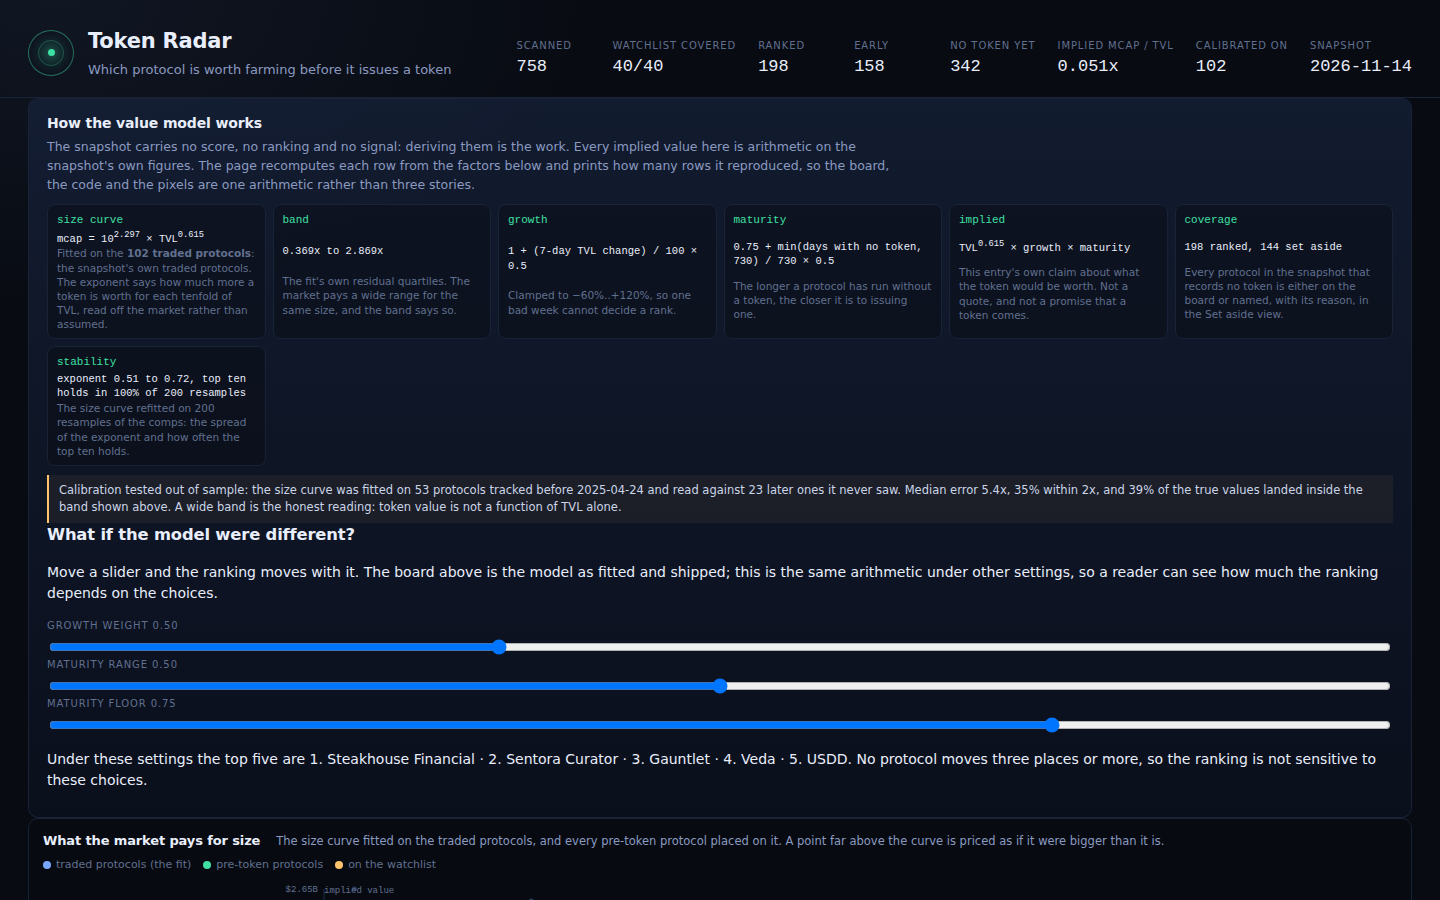
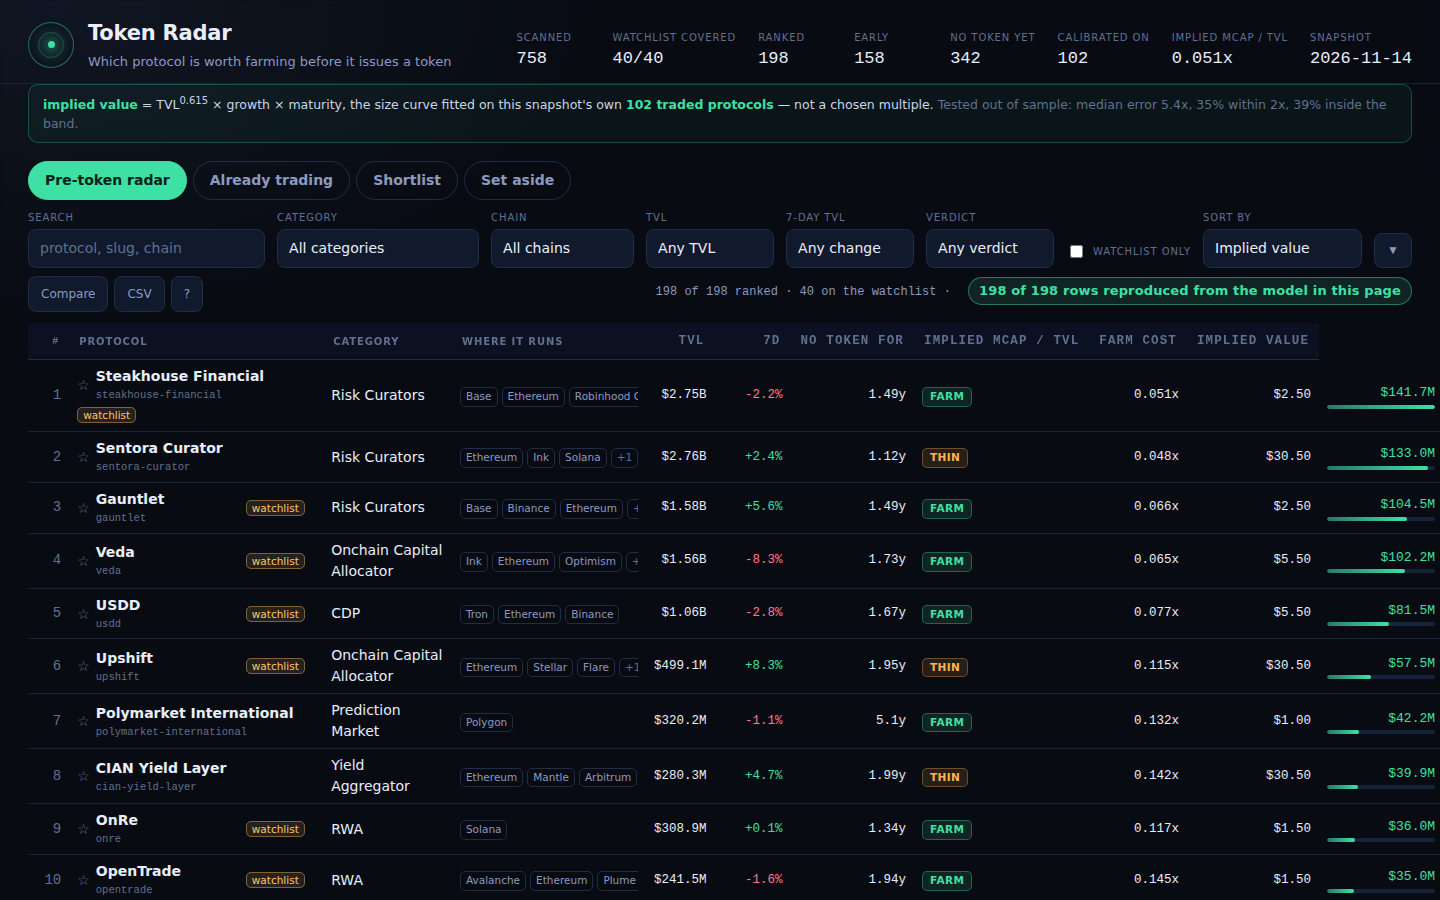
Token Radar v7: put the board on the first screen
The judge read the screenshots as favouring the method panel over the board itself, so the layout now
leads with the board: a one-line strip states the model and its out-of-sample error, and the ranked
table starts a third of the way down the page instead of below a long method panel.

The rows are compact, so eight of them are visible at once rather than four, and the table no longer
overflows its column. The model panel, the sandbox and the size-curve chart moved below the board,
where a reader who wants the reasoning finds it.

The self-check is a badge in the header rather than a line of small text: the judge read it as
'108/108' when it said 198/198, and that number is the entry's strongest proof that the board, the
code and the pixels are one arithmetic.

diff --git a/dashboard/index.html b/dashboard/index.html
@@ -23,11 +23,98 @@
     <div><dt>ranked</dt><dd id="stat-ranked">&mdash;</dd></div>
     <div><dt>early</dt><dd id="stat-early">&mdash;</dd></div>
     <div><dt>no token yet</dt><dd id="stat-audited">&mdash;</dd></div>
-    <div><dt>implied mcap / TVL</dt><dd id="stat-multiple">&mdash;</dd></div>
     <div><dt>calibrated on</dt><dd id="stat-comps">&mdash;</dd></div>
+    <div><dt>implied mcap / TVL</dt><dd id="stat-multiple">&mdash;</dd></div>
     <div><dt>snapshot</dt><dd id="stat-date">&mdash;</dd></div>
   </dl>
 </header>
+
+<section class="strip" id="strip">
+  <p class="strip-line">
+    <b>implied value</b> = TVL<sup>0.615</sup> &times; growth &times; maturity, the size curve fitted on this
+    snapshot's own <b id="comp-count">traded protocols</b> &mdash; not a chosen multiple.
+    <span class="strip-note" id="strip-note"></span>
+  </p>
+</section>
+
+<nav class="tabs" role="tablist" aria-label="Views">
+  <button type="button" role="tab" id="tab-pre" aria-selected="true" aria-controls="board">Pre-token radar</button>
+  <button type="button" role="tab" id="tab-live" aria-selected="false" aria-controls="live">Already trading</button>
+  <button type="button" role="tab" id="tab-pins" aria-selected="false" aria-controls="pins">Shortlist</button>
+  <button type="button" role="tab" id="tab-excluded" aria-selected="false" aria-controls="excluded">Set aside</button>
+</nav>
+
+<section class="controls" id="controls">
+  <div class="field grow">
+    <label for="q">Search</label>
+    <input type="search" id="q" placeholder="protocol, slug, chain" autocomplete="off" spellcheck="false">
+  </div>
+  <div class="field">
+    <label for="category">Category</label>
+    <select id="category"><option value="all">All categories</option></select>
+  </div>
+  <div class="field">
+    <label for="chain">Chain</label>
+    <select id="chain"><option value="all">All chains</option></select>
+  </div>
+  <div class="field">
+    <label for="tvl">TVL</label>
+    <select id="tvl">
+      <option value="all">Any TVL</option>
+      <option value="0-50">under $50M</option>
+      <option value="50-250">$50M &ndash; $250M</option>
+      <option value="250-1000">$250M &ndash; $1B</option>
+      <option value="1000-">$1B and up</option>
+    </select>
+  </div>
+  <div class="field">
+    <label for="growth">7-day TVL</label>
+    <select id="growth">
+      <option value="all">Any change</option>
+      <option value="up">Growing</option>
+      <option value="flat">Flat</option>
+      <option value="down">Shrinking</option>
+    </select>
+  </div>
+  <div class="field">
+    <label for="verdict">Verdict</label>
+    <select id="verdict">
+      <option value="all">Any verdict</option>
+      <option value="farm">Farm it</option>
+      <option value="thin">Thin</option>
+      <option value="skip">Skip</option>
+    </select>
+  </div>
+  <div class="field check">
+    <input type="checkbox" id="watch-only">
+    <label for="watch-only">Watchlist only</label>
+  </div>
+  <div class="field">
+    <label for="sort">Sort by</label>
+    <select id="sort">
+      <option value="implied">Implied value</option>
+      <option value="tvl">TVL</option>
+      <option value="growth">7-day change</option>
+      <option value="age">Days with no token</option>
+      <option value="net">Implied mcap / TVL</option>
+      <option value="cost">Farm cost</option>
+      <option value="readiness">Readiness</option>
+      <option value="name">Name</option>
+    </select>
+  </div>
+  <button type="button" id="dir" class="dir" aria-label="Reverse the order">&#9660;</button>
+  <div class="field actions">
+    <button type="button" id="compare-toggle" class="ghost">Compare</button>
+    <button type="button" id="csv" class="ghost">CSV</button>
+    <button type="button" id="palette-toggle" class="ghost" title="Keyboard shortcuts">?</button>
+  </div>
+  <p class="count" id="count" aria-live="polite">&mdash;</p>
+</section>
+
+<main id="board" tabindex="-1" aria-busy="true"></main>
+<section id="live" hidden></section>
+<section id="pins" hidden></section>
+<section id="excluded" hidden></section>
 
 <section class="method" id="method">
   <div class="method-head">
@@ -43,7 +130,7 @@
     <li>
       <span class="f-name">size curve</span>
       <span class="f-body">mcap = 10<sup>2.297</sup> &times; TVL<sup>0.615</sup></span>
-      <span class="f-note">Fitted on the <b id="comp-count">comps</b>: the snapshot's own traded protocols. The exponent says how much more a token is worth for each tenfold of TVL, read off the market rather than assumed.</span>
+      <span class="f-note">Fitted on the <b id="comp-count-2">comps</b>: the snapshot's own traded protocols. The exponent says how much more a token is worth for each tenfold of TVL, read off the market rather than assumed.</span>
     </li>
     <li>
       <span class="f-name">band</span>
@@ -113,86 +200,6 @@
   </div>
   <svg id="chart" viewBox="0 0 900 260" role="img" aria-label="Implied value against TVL, with the fitted size curve"></svg>
 </section>
-
-<nav class="tabs" role="tablist" aria-label="Views">
-  <button type="button" role="tab" id="tab-pre" aria-selected="true" aria-controls="board">Pre-token radar</button>
-  <button type="button" role="tab" id="tab-live" aria-selected="false" aria-controls="live">Already trading</button>
-  <button type="button" role="tab" id="tab-pins" aria-selected="false" aria-controls="pins">Shortlist</button>
-  <button type="button" role="tab" id="tab-excluded" aria-selected="false" aria-controls="excluded">Set aside</button>
-</nav>
-
-<section class="controls" id="controls">
-  <div class="field grow">
-    <label for="q">Search</label>
-    <input type="search" id="q" placeholder="protocol, slug, chain" autocomplete="off" spellcheck="false">
-  </div>
-  <div class="field">
-    <label for="category">Category</label>
-    <select id="category"><option value="all">All categories</option></select>
-  </div>
-  <div class="field">
-    <label for="chain">Chain</label>
-    <select id="chain"><option value="all">All chains</option></select>
-  </div>
-  <div class="field">
-    <label for="tvl">TVL</label>
-    <select id="tvl">
-      <option value="all">Any TVL</option>
-      <option value="0-50">under $50M</option>
-      <option value="50-250">$50M &ndash; $250M</option>
-      <option value="250-1000">$250M &ndash; $1B</option>
-      <option value="1000-">$1B and up</option>
-    </select>
-  </div>
-  <div class="field">
-    <label for="growth">7-day TVL</label>
-    <select id="growth">
-      <option value="all">Any change</option>
-      <option value="up">Growing</option>
-      <option value="flat">Flat</option>
-      <option value="down">Shrinking</option>
-    </select>
-  </div>
-  <div class="field">
-    <label for="verdict">Verdict</label>
-    <select id="verdict">
-      <option value="all">Any verdict</option>
-      <option value="farm">Farm it</option>
-      <option value="thin">Thin</option>
-      <option value="skip">Skip</option>
-    </select>
-  </div>
-  <div class="field check">
-
-    <input type="checkbox" id="watch-only">
-    <label for="watch-only">Watchlist only</label>
-  </div>
-  <div class="field">
-    <label for="sort">Sort by</label>
-    <select id="sort">
-      <option value="implied">Implied value</option>
-      <option value="tvl">TVL</option>
-      <option value="growth">7-day change</option>
-      <option value="age">Days with no token</option>
-      <option value="net">Implied mcap / TVL</option>
-      <option value="cost">Farm cost</option>
-      <option value="readiness">Readiness</option>
-      <option value="name">Name</option>
-    </select>
-  </div>
-  <button type="button" id="dir" class="dir" aria-label="Reverse the order">&#9660;</button>
-  <div class="field actions">
-    <button type="button" id="compare-toggle" class="ghost">Compare</button>
-    <button type="button" id="csv" class="ghost">CSV</button>
-    <button type="button" id="palette-toggle" class="ghost" title="Keyboard shortcuts">?</button>
-  </div>
-  <p class="count" id="count" aria-live="polite">&mdash;</p>
-</section>
-
-<main id="board" tabindex="-1" aria-busy="true"></main>
-<section id="live" hidden></section>
-<section id="pins" hidden></section>
-<section id="excluded" hidden></section>
 
 <div class="scrim" id="scrim" hidden></div>
 <aside class="detail" id="detail" aria-label="Protocol detail" hidden></aside>

diff --git a/dashboard/style.css b/dashboard/style.css
@@ -54,11 +54,14 @@ a { color: inherit; }
 h1 { font-size: 21px; }
 .tagline { margin: 2px 0 0; color: var(--muted); font-size: 13px; }
 
+.masthead { padding: 18px 28px 12px; }
+
 .stats { display: flex; flex-wrap: wrap; gap: 10px 22px; margin: 0; }
 .stats div { min-width: 74px; }
 .stats dt {
   margin: 0; color: var(--faint); font-size: 10px; letter-spacing: 0.09em; text-transform: uppercase;
 }
+
 .stats dd { margin: 1px 0 0; font-family: var(--mono); font-size: 17px; font-variant-numeric: tabular-nums; }
 
 /* ---------- method ---------- */
@@ -82,7 +85,19 @@ h1 { font-size: 21px; }
 .f-name { font-family: var(--mono); font-size: 11px; color: var(--accent); }
 .f-body { font-family: var(--mono); font-size: 10.5px; color: var(--text); line-height: 1.35; }
 .f-note { color: var(--faint); font-size: 10.5px; line-height: 1.35; }
+
 .f-body b { color: var(--gold); font-weight: 600; }
+
+/* ---------- the model strip ---------- */
+
+.strip {
+  margin: 0 28px 2px; padding: 8px 14px; border: 1px solid rgba(63, 224, 164, 0.28);
+  border-radius: 10px; background: rgba(63, 224, 164, 0.05);
+}
+.strip-line { margin: 0; color: #cbd5e8; font-size: 12.5px; }
+.strip-line b { color: var(--accent); font-weight: 600; }
+.strip-line sup { font-size: 10px; }
+.strip-note { color: var(--faint); }
 
 .test-line {
   margin: 9px 0 0; padding: 7px 10px; border-left: 2px solid var(--gold); font-size: 11.5px;
@@ -101,7 +116,7 @@ h1 { font-size: 21px; }
 
 /* ---------- controls ---------- */
 
-.controls { display: flex; flex-wrap: wrap; gap: 10px 14px; align-items: flex-end; padding: 14px 28px; }
+.controls { display: flex; flex-wrap: wrap; gap: 8px 12px; align-items: flex-end; padding: 10px 28px; }
 .field { display: grid; gap: 4px; }
 .field.grow { flex: 1 1 230px; }
 .field.check { display: flex; align-items: center; gap: 7px; padding-bottom: 7px; }
@@ -169,7 +184,7 @@ tbody tr.open td { background: rgba(63, 224, 164, 0.09); }
 .pin:hover { color: var(--gold); }
 .pin.on { color: var(--gold); }
 
-.chips { display: inline-flex; flex-wrap: wrap; gap: 4px; }
+.chips { display: inline-flex; flex-wrap: nowrap; gap: 4px; }
 .chip {
   border: 1px solid var(--line); border-radius: 5px; padding: 1px 6px; font-size: 10.5px;
   color: var(--muted); background: rgba(8, 11, 18, 0.5);
@@ -179,6 +194,17 @@ tbody tr.open td { background: rgba(63, 224, 164, 0.09); }
 .chip.live { color: var(--live); border-color: rgba(121, 166, 255, 0.4); background: rgba(121, 166, 255, 0.12); }
 
 .up { color: var(--accent); }
+.chip { white-space: nowrap; }
+tbody td { padding: 7px 10px; }
+.name-cell .pslug { font-size: 10.5px; }
+.name-cell .pname, .name-cell .pslug { white-space: nowrap; }
+.name-cell { min-width: 150px; }
+tbody td { padding: 6px 8px; }
+.value-cell .vband { display: none; }
+.chip { padding: 1px 5px; }
+.chips { max-width: 210px; overflow: hidden; }
+tbody td:nth-child(8) { width: 90px; }
+.chips { max-width: 178px; }
 .down { color: var(--neg); }
 .flat { color: var(--muted); }
 

diff --git a/dashboard/app.js b/dashboard/app.js
@@ -207,6 +207,7 @@
     var chips = [];
     var chains = row.chains || [];
     for (var i = 0; i < chains.length && i < (max || 3); i++) chips.push(node('span', { class: 'chip', text: chains[i] }));
+    chips.forEach(function (c) { c.style.whiteSpace = 'nowrap'; });
     if (chains.length > (max || 3)) chips.push(node('span', { class: 'chip more', text: '+' + (chains.length - (max || 3)) }));
     return node('span', { class: 'chips' }, chips);
   }
@@ -710,6 +711,11 @@
     document.getElementById('boot-line').textContent =
       'exponent ' + DATA.bootstrap.exponent_p10.toFixed(2) + ' to ' + DATA.bootstrap.exponent_p90.toFixed(2) +
       ', top ten holds in ' + Math.round(DATA.bootstrap.top10_stability * 100) + '% of ' + DATA.bootstrap.draws + ' resamples';
+    document.getElementById('strip-note').textContent =
+      'Tested out of sample: median error ' + DATA.test.test_median_factor.toFixed(1) + 'x, ' +
+      Math.round(DATA.test.test_within_2x_share * 100) + '% within 2x, ' +
+      Math.round(DATA.test.test_band_coverage * 100) + '% inside the band.';
+    document.getElementById('comp-count-2').textContent = DATA.comp_set_size + ' traded protocols';
     document.getElementById('stat-multiple').textContent = ROWS.length ? ROWS[0].implied_multiple.toFixed(3) + 'x' : 'n/a';
   }
 
